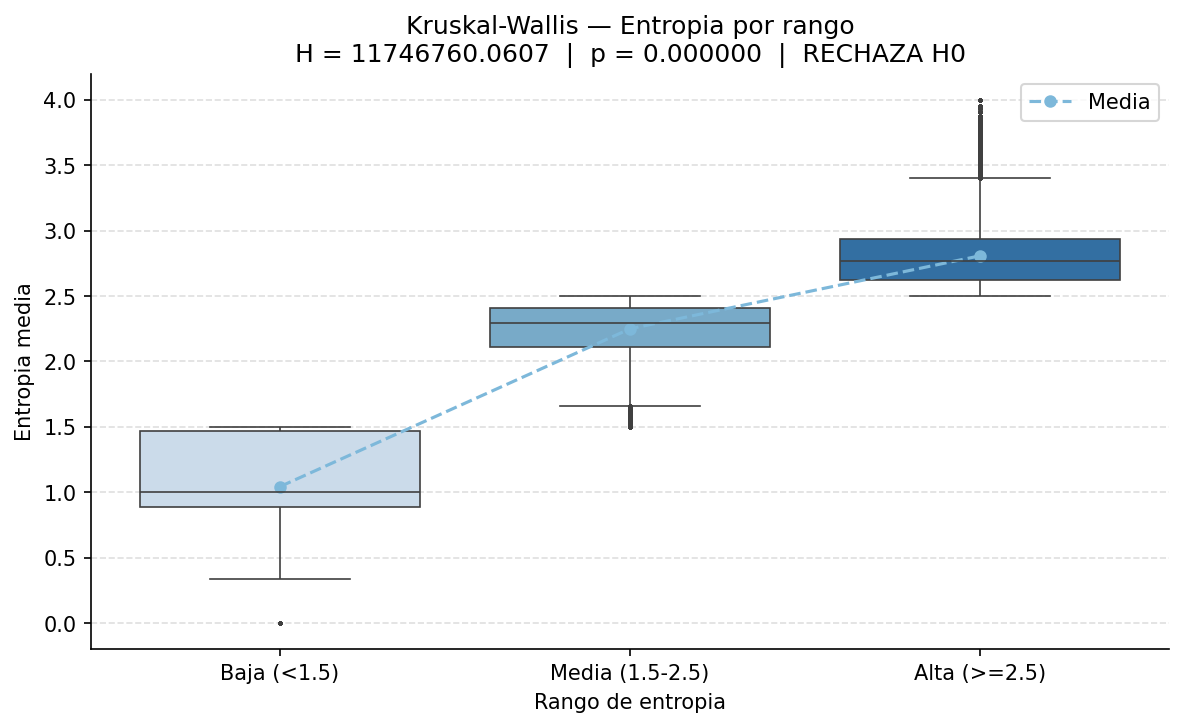
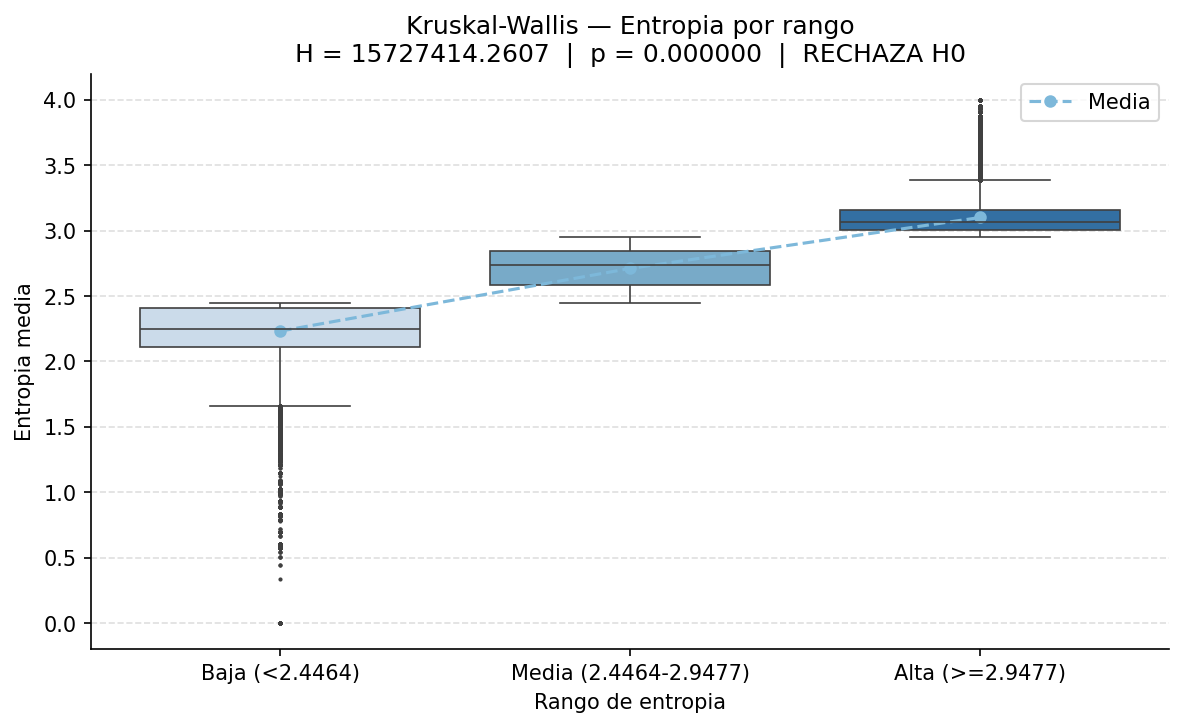
feat: annade punto 1.1.

diff --git a/codigo/03_modelacion.py b/codigo/03_modelacion.py
@@ -128,14 +128,6 @@ def ks_benford(alpha=0.05):
         estado  = "RECHAZA H0" if rechaza else "No rechaza H0"
 
         mad = float(np.mean(np.abs(prob_empirica - prob_teorica)))
-        if mad < 0.006:
-            mad_result = "Muy cercana"
-        elif mad < 0.012:
-            mad_result = "Aceptable"
-        elif mad < 0.015:
-            mad_result = "Marginal"
-        else:
-            mad_result = "No conformidad"
 
         resultados.append({
             "posicion":   pos_num,
@@ -143,11 +135,10 @@ def ks_benford(alpha=0.05):
             "D":          D,
             "D_alpha":    D_alpha,
             "rechaza":    rechaza,
-            "mad":        mad,
-            "mad_result": mad_result
+            "mad":        mad
         })
 
-        print(f"  Posicion {pos_num}: n = {int(total):<12} D = {D:.6f}   D_alpha = {D_alpha:.6f}   {estado:<12} MAD = {mad:.6f}   {mad_result}")
+        print(f"  Posicion {pos_num}: n = {int(total):<12} D = {D:.6f}   D_alpha = {D_alpha:.6f}   {estado:<12} MAD = {mad:.6f}   {mad}")
 
         x     = np.array(digitos_validos)
         ancho = 0.35
@@ -199,7 +190,7 @@ def ks_benford(alpha=0.05):
 
         for r in resultados:
             estado = "RECHAZA" if r["rechaza"] else "NO rechaza"
-            f.write(f"{r['posicion']:<6} {r['n']:<14} {r['D']:<12.6f} {r['D_alpha']:<12.6f} {estado:<14} {r['mad']:<12.6f} {r['mad_result']}\n")
+            f.write(f"{r['posicion']:<6} {r['n']:<14} {r['D']:<12.6f} {r['D_alpha']:<12.6f} {estado:<14} {r['mad']:<12.6f}\n")
 
         rechazadas = sum(1 for r in resultados if r["rechaza"])
         f.write(f"\nPosiciones que rechazan H0: {rechazadas} / {len(resultados)}\n")
@@ -211,7 +202,7 @@ def ks_benford(alpha=0.05):
 
 
 
-def kruskal_wallis_entropias():
+def kruskal_wallis_entropias(cap_expand = 500000):
     """
     Calcula la prueba de Kruskal-Wallis sobre las entropias medias de las mascaras
     agrupadas por tres criterios: longitud de mascara, tipo dominante de caracteres
@@ -284,9 +275,9 @@ def kruskal_wallis_entropias():
 
     grupos_long_valid = {k: v for k, v in grupos_long.items() if len(v) >= 2}
     etiquetas_long    = sorted(grupos_long_valid.keys())
-    muestras_long     = [expandir([e for e, _ in grupos_long_valid[k]],
-                                  [f for _, f in grupos_long_valid[k]])
-                         for k in etiquetas_long]
+    muestras_long = [expandir([e for e, _ in grupos_long_valid[k]],
+                           [f for _, f in grupos_long_valid[k]], cap_expand)
+                  for k in etiquetas_long]
 
     H_long, p_long = stats.kruskal(*muestras_long)
     rechaza_long   = p_long < 0.05
@@ -398,13 +389,13 @@ def kruskal_wallis_entropias():
             e (float): Valor de entropia media.
 
         Returns:
-            str: Etiqueta del rango: 'Baja (<1.5)', 'Media (1.5-2.5)' o 'Alta (>=2.5)'.
+            str: Etiqueta del rango: 'Baja (<2.4464)', 'Media (2.4464-2.9477)' o 'Alta (>=2.9477)'.
         """
-        if e < 1.5:
-            return "Baja (<1.5)"
-        if e < 2.5:
-            return "Media (1.5-2.5)"
-        return "Alta (>=2.5)"
+        if e < 2.4464:
+            return "Baja (<2.4464)"
+        if e < 2.9477:
+            return "Media (2.4464-2.9477)"
+        return "Alta (>=2.9477)"
 
     rangos       = np.array([rango_entropia(e) for e in entropias])
     grupos_rango = defaultdict(list)
@@ -412,7 +403,7 @@ def kruskal_wallis_entropias():
     for rng, ent, frq in zip(rangos, entropias, frecuencias):
         grupos_rango[rng].append((ent, frq))
 
-    orden_rangos  = ["Baja (<1.5)", "Media (1.5-2.5)", "Alta (>=2.5)"]
+    orden_rangos  = ["Baja (<2.4464)", "Media (2.4464-2.9477)", "Alta (>=2.9477)"]
     etiquetas_rng = [r for r in orden_rangos if r in grupos_rango]
     muestras_rng  = [expandir([e for e, _ in grupos_rango[k]],
                               [f for _, f in grupos_rango[k]])
@@ -466,7 +457,7 @@ def kruskal_wallis_entropias():
     print(f"  -> Graficos en {OUT_KW_DIR}/")
 
 
-def spearman_longitud_entropia():
+def spearman_longitud_entropia(cap_spear = 200_000):
     """
     Calcula la correlacion de Spearman entre la longitud de la mascara y su
     entropia media, en dos variantes: sin ponderar (una observacion por mascara)
@@ -508,7 +499,7 @@ def spearman_longitud_entropia():
 
     rho_raw, p_raw = stats.spearmanr(longitudes, entropias)
 
-    cap     = 200_000
+    cap = cap_spear
     lon_exp = []
     ent_exp = []
 
@@ -656,7 +647,7 @@ def analizar_patrones_mascaras():
     longitudes = np.array([len(m) for m in mascaras])
  
     # ------------------------------------------------------------------ #
-    # 1. DONUT — composicion de tipos                                      #
+    # 1. Composicion de tipos                                      #
     # ------------------------------------------------------------------ #
     solo_L = np.array([s == {"L"}              for s in chars_set])
     solo_D = np.array([s == {"D"}              for s in chars_set])
@@ -986,17 +977,117 @@ def analizar_patrones_mascaras():
 # main
 if __name__ == "__main__":
 
+    alpha_ks   = 0.05
+    cap_expand = 500_000
+    cap_spear  = 200_000
+
+    print("=" * 50)
+    print("  Bienvenido al menu de pruebas estadisticas")
+    print("=" * 50)
+
+    opcion = input(f"\nAlpha actual: {alpha_ks} | ¿Desea cambiarlo? (s/n): ").strip().lower()
+    if opcion == 's':
+        try:
+            alpha_ks = float(input("Ingrese el nuevo alpha (ej. 0.01, 0.05, 0.10): "))
+        except ValueError:
+            print("  Valor inválido, se usará alpha = 0.05")
+            alpha_ks = 0.05
+
+    opcion = input(f"\nCap de expansión KW actual: {cap_expand} | ¿Desea cambiarlo? (s/n): ").strip().lower()
+    if opcion == 's':
+        try:
+            cap_expand = int(input("Ingrese el nuevo cap de expansión (ej. 100000): "))
+        except ValueError:
+            print("  Valor inválido, se usará cap = 500000")
+            cap_expand = 500_000
+
+    opcion = input(f"\nCap de expansión Spearman actual: {cap_spear} | ¿Desea cambiarlo? (s/n): ").strip().lower()
+    if opcion == 's':
+        try:
+            cap_spear = int(input("Ingrese el nuevo cap Spearman (ej. 50000): "))
+        except ValueError:
+            print("  Valor inválido, se usará cap = 200000")
+            cap_spear = 200_000
+
+    print(f"\nUsando alpha={alpha_ks}, cap_expand={cap_expand}, cap_spear={cap_spear}\n")
+    print("=" * 50)
     print("=== Pruebas estadisticas ===\n")
 
-    # Metodos no parametricos
+    # PUNTO 3
+    #
+    # Pregunta de investigación (implicita en el proyecto):
+    # En progreso
+    #
+    # El modelo seleccionado combina tres (por el momento) pruebas no parametricas:
+    #   1. KS vs Benford  → ajuste de distribucion por posicion de dígito
+    #   2. Kruskal-Wallis → diferencias de entropía entre grupos (longitud / tipo / rango)
+    #   3. Spearman       → relacion monotonica entre longitud y entropía
+    #
+    # Juntas, responden si los patrones de contraseñas son predecibles
+    # (Benford) y si la estructura interna (longitud, tipo) discrimina
+    # la aleatoriedad medida por entropía. Esto permite concluir parcialmente
+    # sobre la vulnerabilidad estructural de las contraseñas analizadas
+
     print("Calculando KS contra Benford...")
-    ks_benford(0.1)
+    # Compara la CDF empirica de digitos por posicion contra
+    # la CDF teorica de Benford. Si D > D_alpha se rechaza H0, indicando
+    # que los digitos NO siguen Benford -> patron diferente de benford
+    ks_benford(alpha_ks)
 
     print("Calculando Kruskal-Wallis sobre entropias...")
+    # Prueba si la distribucion de entropia difiere entre grupos.
+    # Al rechazar H0 en longitud y tipo dominante se confirma que la estructura
+    # de la mascara si predice la entropia, respondiendo parcialmente la pregunta
+    # sobre predictibilidad de contrasenas segun su patron de caracteres.
     kruskal_wallis_entropias()
 
     print("Calculando Spearman longitud vs entropia...")
+    # Cuantifica la fuerza y direccion de la relacion monotonica.
+    # Un rho alto y positivo confirma que contrasenas mas largas son mas
+    # entropicas, lo que respalda la recomendacion de longitud minima.
     spearman_longitud_entropia()
+
+    
+    # PUNTO 4
+    #
+    # Criterios para calificar si el modelo está bien ajustado:
+    #
+    # [A] Tamano de muestra (n):
+    #     - n >> 10 000 en todas las pruebas -> alta potencia estadistica.
+    #     - Ojo: con n muy grande hasta diferencias chiquitas salen
+    #       significativas. Por eso se mira tambien D, MAD, H y rho
+    #       para evaluar relevancia practica, no solo estadistica.
+    #
+    # [B] KS — ajuste a Benford:
+    #     - Se reporta MAD (Mean Absolute Deviation) ademas del estadistico D.
+    #     - Si todas las posiciones rechazan H0 pero el MAD es bajo,
+    #       el rechazo se debe al n enorme, no a desviaciones reales.
+    #
+    # [C] Kruskal-Wallis — supuestos:
+    #     - No pide normalidad (ya se cumple por construccion).
+    #     - Necesita al menos 2 observaciones por grupo (eso se filtra en el codigo).
+    #     - El cap de frecuencia es el riesgo: si es muy alto puede inflar H.
+    #       Conviene probar con distintos caps para ver si los resultados se mantienen.
+    #     - El agrupamiento por rango de entropia es obvio que da significativo
+    #       (los grupos se definen con la misma variable). Se usa solo como descriptivo,
+    #       no como prueba inferencial.
+    #
+    # [D] Spearman — robustez de la correlacion:
+    #     - No asume linealidad ni normalidad -> sirve para datos ordinales
+    #       y distribuciones sesgadas de contrasenas.
+    #     - Se comparan version sin ponderar y ponderada; si rho se mantiene,
+    #       la correlacion es robusta a la distribucion de frecuencias.
+    #     - Un p ~ 0 con n gigante no dice mucho: lo que importa es el rho
+    #       (si |rho| > 0.7 -> correlacion fuerte).
+    #
+    # [E] Consistencia global:
+    #     - Si KS rechaza Benford, KW separa grupos y Spearman da rho alto,
+    #       las pruebas son consistentes: los digitos no son aleatorios
+    #       y la longitud/tipo los modula. Eso habla bien del modelo.
+    #     - Si alguna prueba no rechaza H0, se anota como hallazgo,
+    #       no como fallo del modelo.
+
+
 
     print("Analizando los patrones de las mascaras...")
     analizar_patrones_mascaras()
